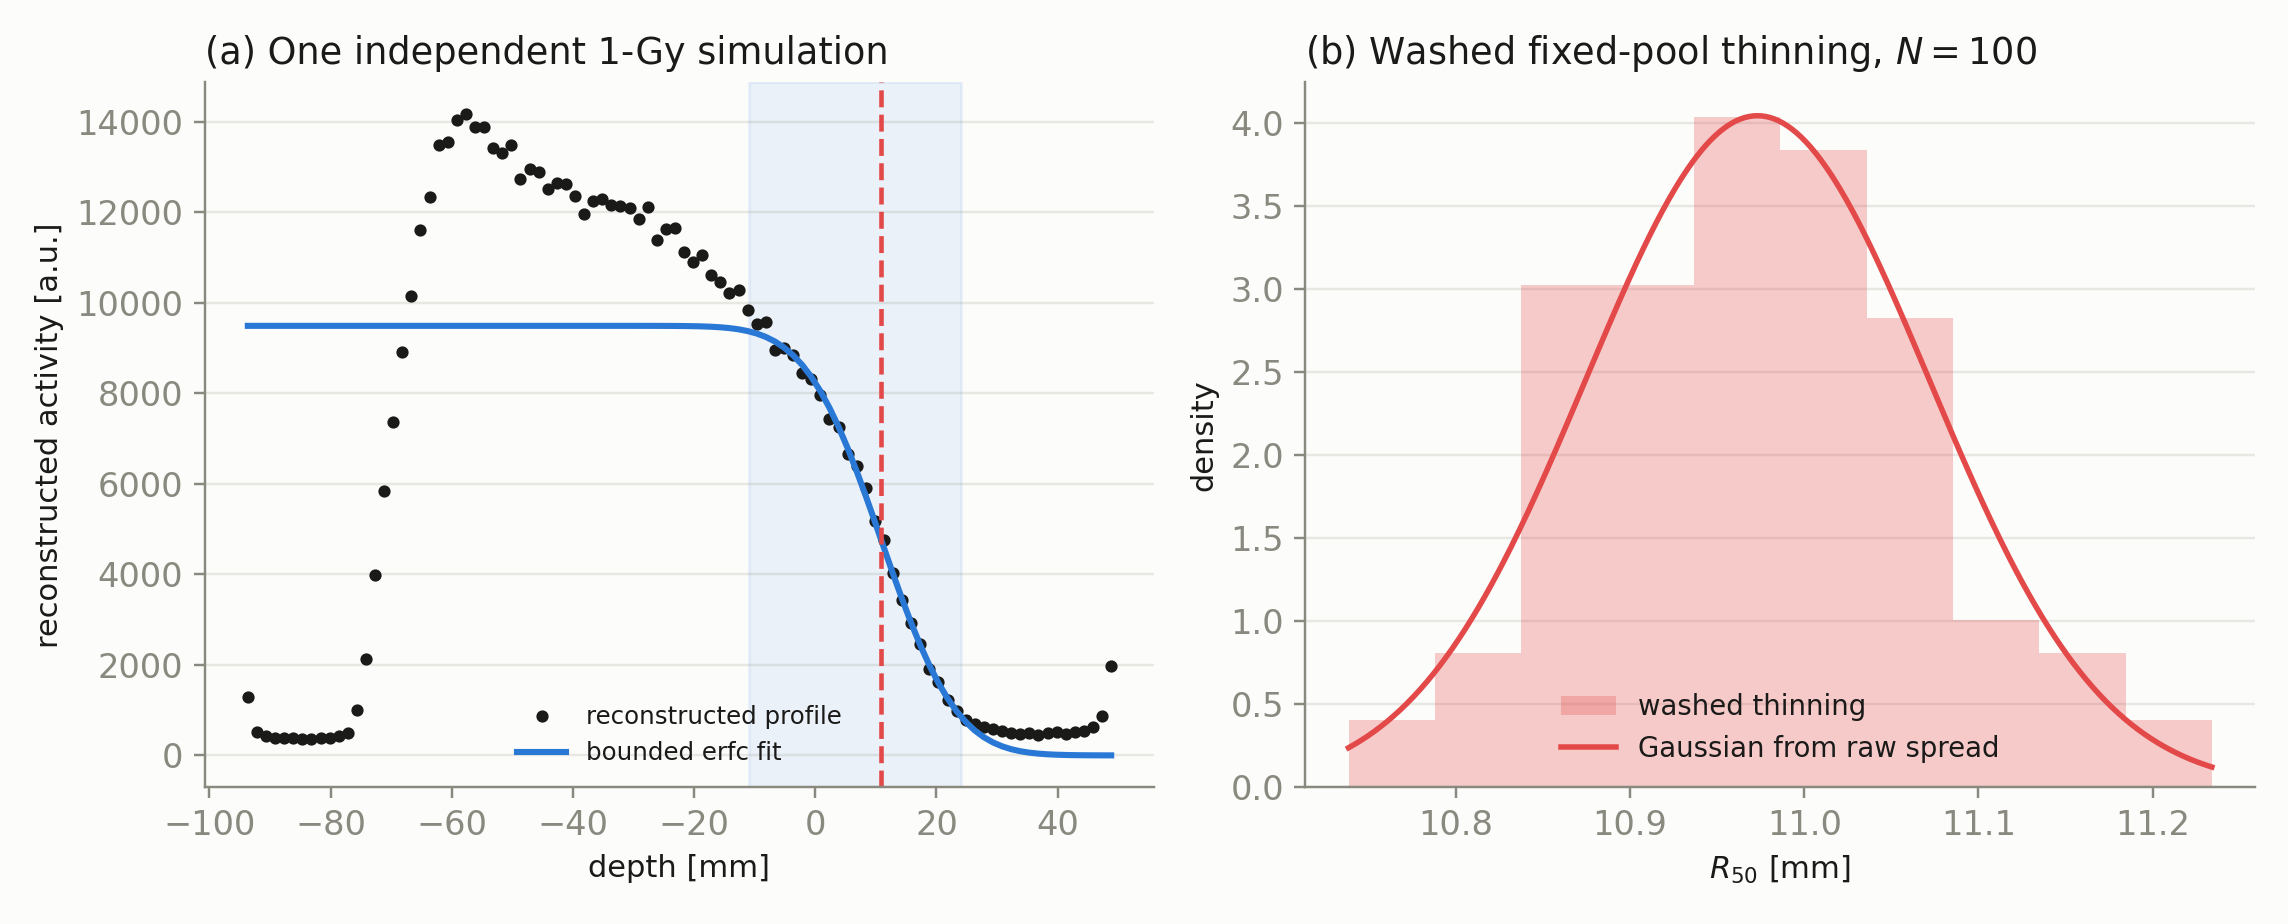
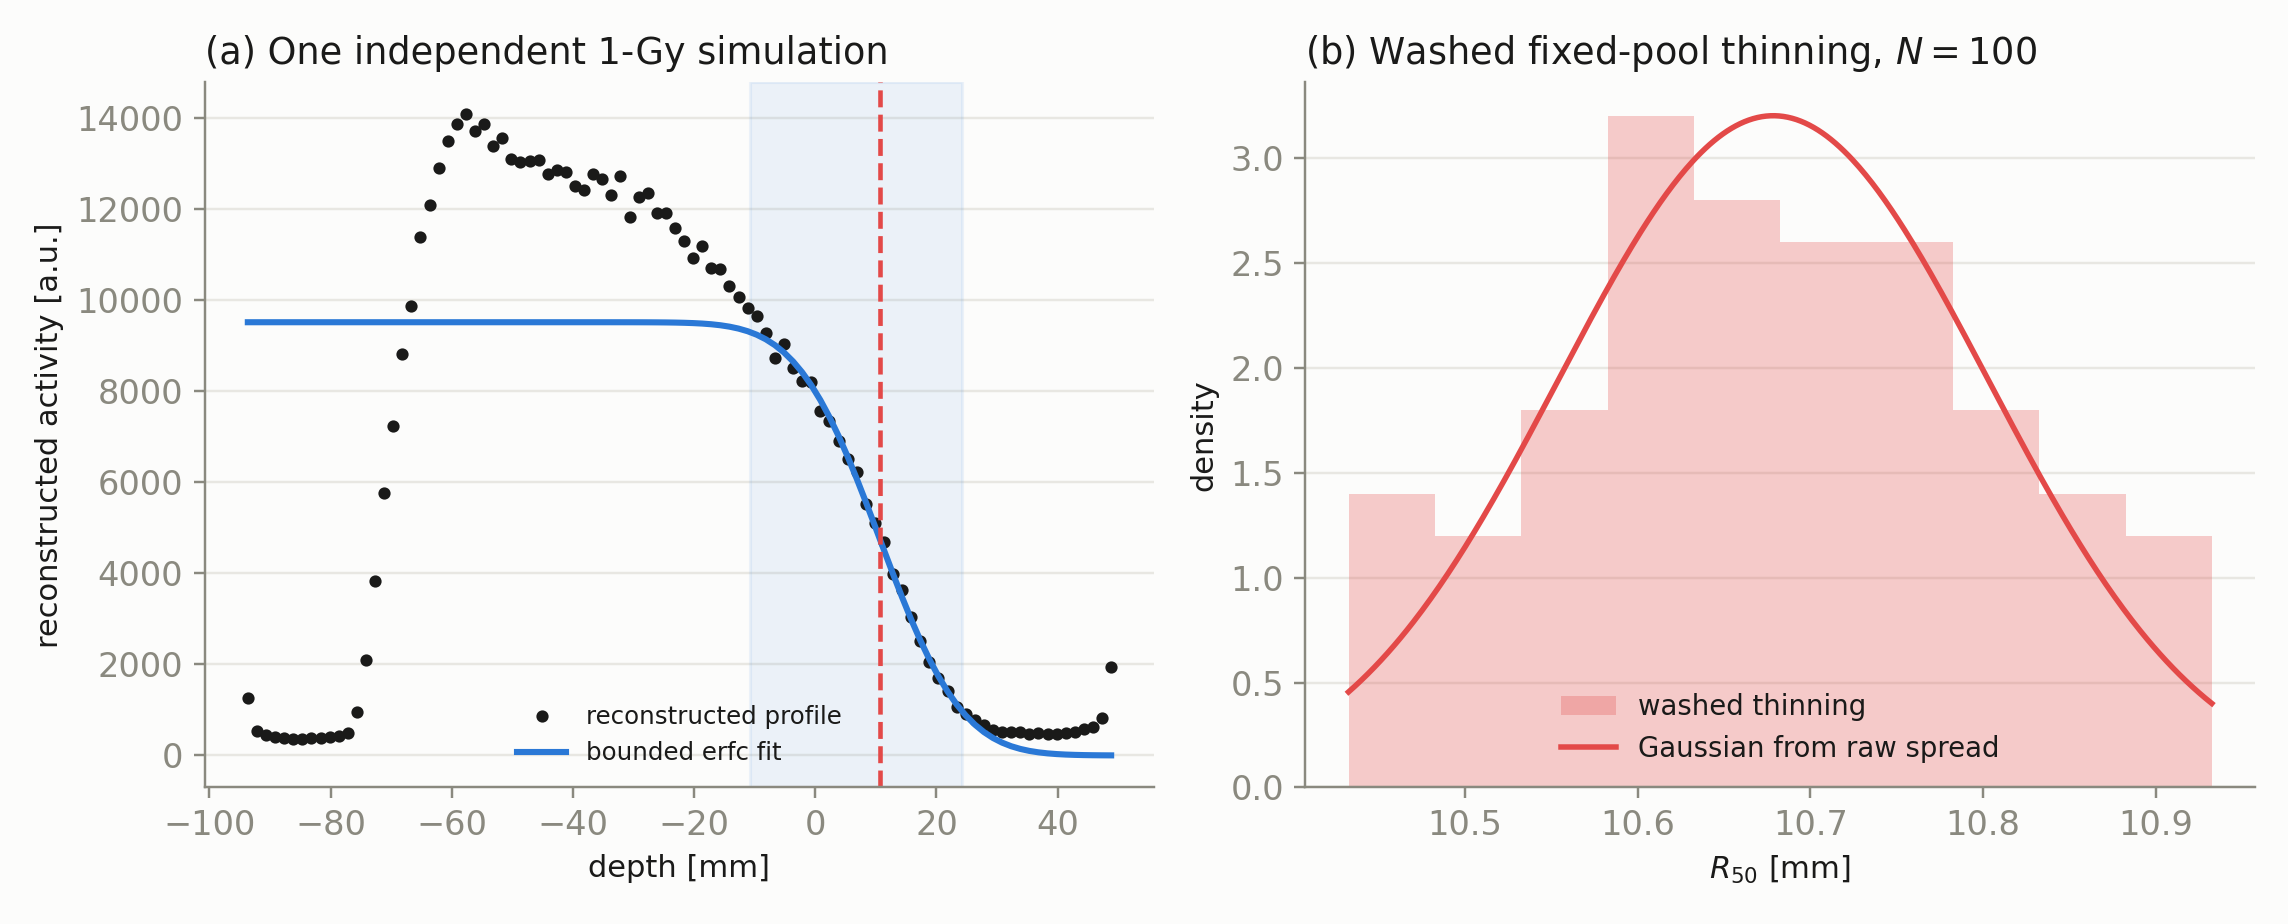
Paper figures: data-driven BGO statistical procedure and delay/duration
plot_statistical_procedure.py: point at the dd scenario, washed-only
(drop the nominal ensemble and its macros) -> statistical_procedure_bgo.png
(sigma_R 0.128, N=100, 0 fails). New plot_statproc_delay_bgo.py: BGO-only
delay/duration on the five dd protocols (300 s: 120/180/300; 120 s:
120/180) with the 7.1% band -> statproc_delay_bgo.png.

diff --git a/tools/plot_statproc_delay_bgo.py b/tools/plot_statproc_delay_bgo.py
@@ -1,0 +1,90 @@
+#!/usr/bin/env python3
+"""
+plot_statproc_delay_bgo.py — reference BGO-ring washed range precision sigma_R vs
+acquisition start delay, for two scan durations, on the data-driven source
+(nominal fitted cross sections; bounded erfc fit, finite-pool-corrected, N=100,
+1 Gy). Two series:
+  red  — full 300 s scan  ([t, t+300]): del120/del180/del300 leaves
+  blue — short 120 s scan ([t, t+120]): the --tend sub-cuts _t120_240, _t180_300
+at start delays t = 120, 180, 300 s (the 120 s scan has t = 120, 180 only).
+Points with the +/-1/sqrt(2(N-1)) band stored in each combine.
+
+Reads each case's combined/washed_N100.toml (fields corrected_sigma_R_mm,
+relative_sigma_uncertainty) under crysp_ring_1m_bgo_2x0/bgo_195k_2X0/
+statistical_procedure/.
+
+Writes latex/figs/statproc_delay_bgo.png.
+Run:  python3 tools/plot_statproc_delay_bgo.py
+"""
+import glob
+import os
+import tomllib
+
+import matplotlib
+
+matplotlib.use("Agg")
+import matplotlib.pyplot as plt
+import numpy as np
+
+from crysp_paths import config_out
+from fit_activity_profile import BLUE, INK, RED, SURFACE, style
+
+SCENARIO, TOPOLOGY = "uniform_headep_sobp_1e8_dd", "closed"
+SCANNER, CRYSTAL = "crysp_ring_1m_bgo_2x0", "bgo_195k_2X0"
+REPO = os.path.dirname(os.path.dirname(os.path.abspath(__file__)))
+
+# series -> (label, colour, marker, [(start, case-dir) ...])
+SERIES = [
+    ("300 s scan", RED, "o", [
+        (120, "del120s_ac300s_1Gy_D1p0Gy"),
+        (180, "del180s_ac300s_1Gy_D1p0Gy"),
+        (300, "del300s_ac300s_1Gy_D1p0Gy"),
+    ]),
+    ("120 s scan", BLUE, "s", [
+        (120, "del120s_ac300s_1Gy_D1p0Gy_t120_240"),
+        (180, "del180s_ac300s_1Gy_D1p0Gy_t180_300"),
+    ]),
+]
+
+
+def washed(case):
+    base = os.path.join(config_out(SCENARIO, TOPOLOGY, SCANNER, CRYSTAL),
+                        "statistical_procedure", case, "combined")
+    f = glob.glob(os.path.join(base, "washed_N*.toml"))
+    if not f:
+        raise FileNotFoundError(f"no washed combine in {base}")
+    with open(f[0], "rb") as fh:
+        d = tomllib.load(fh)
+    return d["corrected_sigma_R_mm"], d["relative_sigma_uncertainty"]
+
+
+def main():
+    fig, ax = plt.subplots(figsize=(6.6, 4.6), facecolor=SURFACE)
+    style(ax)
+    for lab, col, mk, cases in SERIES:
+        t = np.array([s for s, _ in cases])
+        vals = [washed(c) for _, c in cases]
+        s = np.array([v for v, _ in vals])
+        band = np.array([b for _, b in vals])
+        ax.errorbar(t, s, yerr=s * band, fmt=mk, ls="none", ms=8, color=col,
+                    capsize=3, label=lab)
+    ax.set_xticks([120, 180, 300])
+    ax.set_xlim(90, 330)
+    ax.set_ylim(0.0, 0.38)
+    ax.set_xlabel("acquisition start delay [s]", color=INK, fontsize=12)
+    ax.set_ylabel("washed $\\sigma_R$ at 1 Gy [mm]", color=INK, fontsize=13)
+    ax.set_title("BGO ring: range precision vs start delay and scan duration",
+                 color=INK, fontsize=12, loc="left")
+    ax.legend(frameon=False, fontsize=12, labelcolor=INK, loc="upper left")
+    fig.tight_layout()
+
+    d = os.path.join(REPO, "latex", "figs")
+    os.makedirs(d, exist_ok=True)
+    path = os.path.join(d, "statproc_delay_bgo.png")
+    fig.savefig(path, dpi=160, facecolor=SURFACE)
+    plt.close(fig)
+    print(f"wrote {path}")
+
+
+if __name__ == "__main__":
+    main()

diff --git a/tools/plot_statistical_procedure.py b/tools/plot_statistical_procedure.py
@@ -1,5 +1,6 @@
 #!/usr/bin/env python3
-"""Plot and export the paper's reference BGO statistical-procedure result."""
+"""Plot and export the reference BGO statistical-procedure result on the
+data-driven source (nominal fitted cross sections). Washed thinning only."""
 
 import argparse
 import math
@@ -15,7 +16,7 @@ import numpy as np
 from crysp_paths import config_out
 from fit_activity_profile import BLUE, INK, RED, SURFACE, style
 
-SCENARIO = "uniform_headep_sobp_1e8"
+SCENARIO = "uniform_headep_sobp_1e8_dd"
 TOPOLOGY = "closed"
 SCANNER = "crysp_ring_1m_bgo_2x0"
 CRYSTAL = "bgo_195k_2X0"
@@ -66,10 +67,8 @@ def main():
         if name.endswith(".toml")
     )
     shard_rows = [tomllib.load(open(path, "rb")) for path in shard_files]
-    nominal = tomllib.load(open(os.path.join(root, "combined", "nominal_N100.toml"), "rb"))
     washed = tomllib.load(open(os.path.join(root, "combined", "washed_N100.toml"), "rb"))
     r_shards = np.asarray([row["R50_mm"] for row in shard_rows], dtype=float)
-    r_nominal = np.asarray(nominal["R50_mm"], dtype=float)
     r_washed = np.asarray(washed["R50_mm"], dtype=float)
     shard_mean, shard_sigma = r_shards.mean(), r_shards.std(ddof=1)
     shard_chi2 = np.asarray([row["erfc_chi2_dof"] for row in shard_rows], dtype=float)
@@ -122,17 +121,11 @@ def main():
         rf"\newcommand{{\StatShardFitErrMin}}{{{np.nanmin([r['R50_fit_error_mm'] for r in shard_rows]):.3f}}}",
         rf"\newcommand{{\StatShardFitErrMax}}{{{np.nanmax([r['R50_fit_error_mm'] for r in shard_rows]):.3f}}}",
         rf"\newcommand{{\StatShardChiMedian}}{{{np.nanmedian(shard_chi2):.2f}}}",
-        rf"\newcommand{{\StatNomMean}}{{{nominal['mean_R50_mm']:.3f}}}",
-        rf"\newcommand{{\StatNomRaw}}{{{nominal['raw_sigma_R_mm']:.3f}}}",
-        rf"\newcommand{{\StatNomCorrection}}{{{nominal['finite_pool_correction']:.3f}}}",
-        rf"\newcommand{{\StatNomCorrected}}{{{nominal['corrected_sigma_R_mm']:.3f}}}",
         rf"\newcommand{{\StatWashMean}}{{{washed['mean_R50_mm']:.3f}}}",
         rf"\newcommand{{\StatWashRaw}}{{{washed['raw_sigma_R_mm']:.3f}}}",
         rf"\newcommand{{\StatWashCorrection}}{{{washed['finite_pool_correction']:.3f}}}",
         rf"\newcommand{{\StatWashCorrected}}{{{washed['corrected_sigma_R_mm']:.3f}}}",
-        rf"\newcommand{{\StatNomChiMedian}}{{{np.nanmedian([tomllib.load(open(os.path.join(root, 'nominal', f'realization{i:04d}.toml'), 'rb'))['erfc_chi2_dof'] for i in nominal['indices']]):.2f}}}",
         rf"\newcommand{{\StatWashChiMedian}}{{{np.nanmedian([tomllib.load(open(os.path.join(root, 'washed', f'realization{i:04d}.toml'), 'rb'))['erfc_chi2_dof'] for i in washed['indices']]):.2f}}}",
-        rf"\newcommand{{\StatNomFailures}}{{{nominal['n_fail']}}}",
         rf"\newcommand{{\StatWashFailures}}{{{washed['n_fail']}}}",
     ]
     with open(macros, "w", encoding="utf-8") as stream:

diff --git a/latex/statistical_procedure_results.tex b/latex/statistical_procedure_results.tex
@@ -1,18 +1,12 @@
 % Generated by tools/plot_statistical_procedure.py; do not edit.
-\newcommand{\StatShardMean}{10.950}
-\newcommand{\StatShardSigma}{0.063}
-\newcommand{\StatShardFitErrMin}{0.148}
-\newcommand{\StatShardFitErrMax}{0.155}
-\newcommand{\StatShardChiMedian}{2.94}
-\newcommand{\StatNomMean}{10.953}
-\newcommand{\StatNomRaw}{0.067}
-\newcommand{\StatNomCorrection}{1.054}
-\newcommand{\StatNomCorrected}{0.070}
-\newcommand{\StatWashMean}{10.973}
-\newcommand{\StatWashRaw}{0.099}
+\newcommand{\StatShardMean}{10.664}
+\newcommand{\StatShardSigma}{0.049}
+\newcommand{\StatShardFitErrMin}{0.178}
+\newcommand{\StatShardFitErrMax}{0.185}
+\newcommand{\StatShardChiMedian}{3.86}
+\newcommand{\StatWashMean}{10.679}
+\newcommand{\StatWashRaw}{0.125}
 \newcommand{\StatWashCorrection}{1.024}
-\newcommand{\StatWashCorrected}{0.101}
-\newcommand{\StatNomChiMedian}{3.25}
-\newcommand{\StatWashChiMedian}{4.38}
-\newcommand{\StatNomFailures}{0}
+\newcommand{\StatWashCorrected}{0.128}
+\newcommand{\StatWashChiMedian}{5.56}
 \newcommand{\StatWashFailures}{0}
